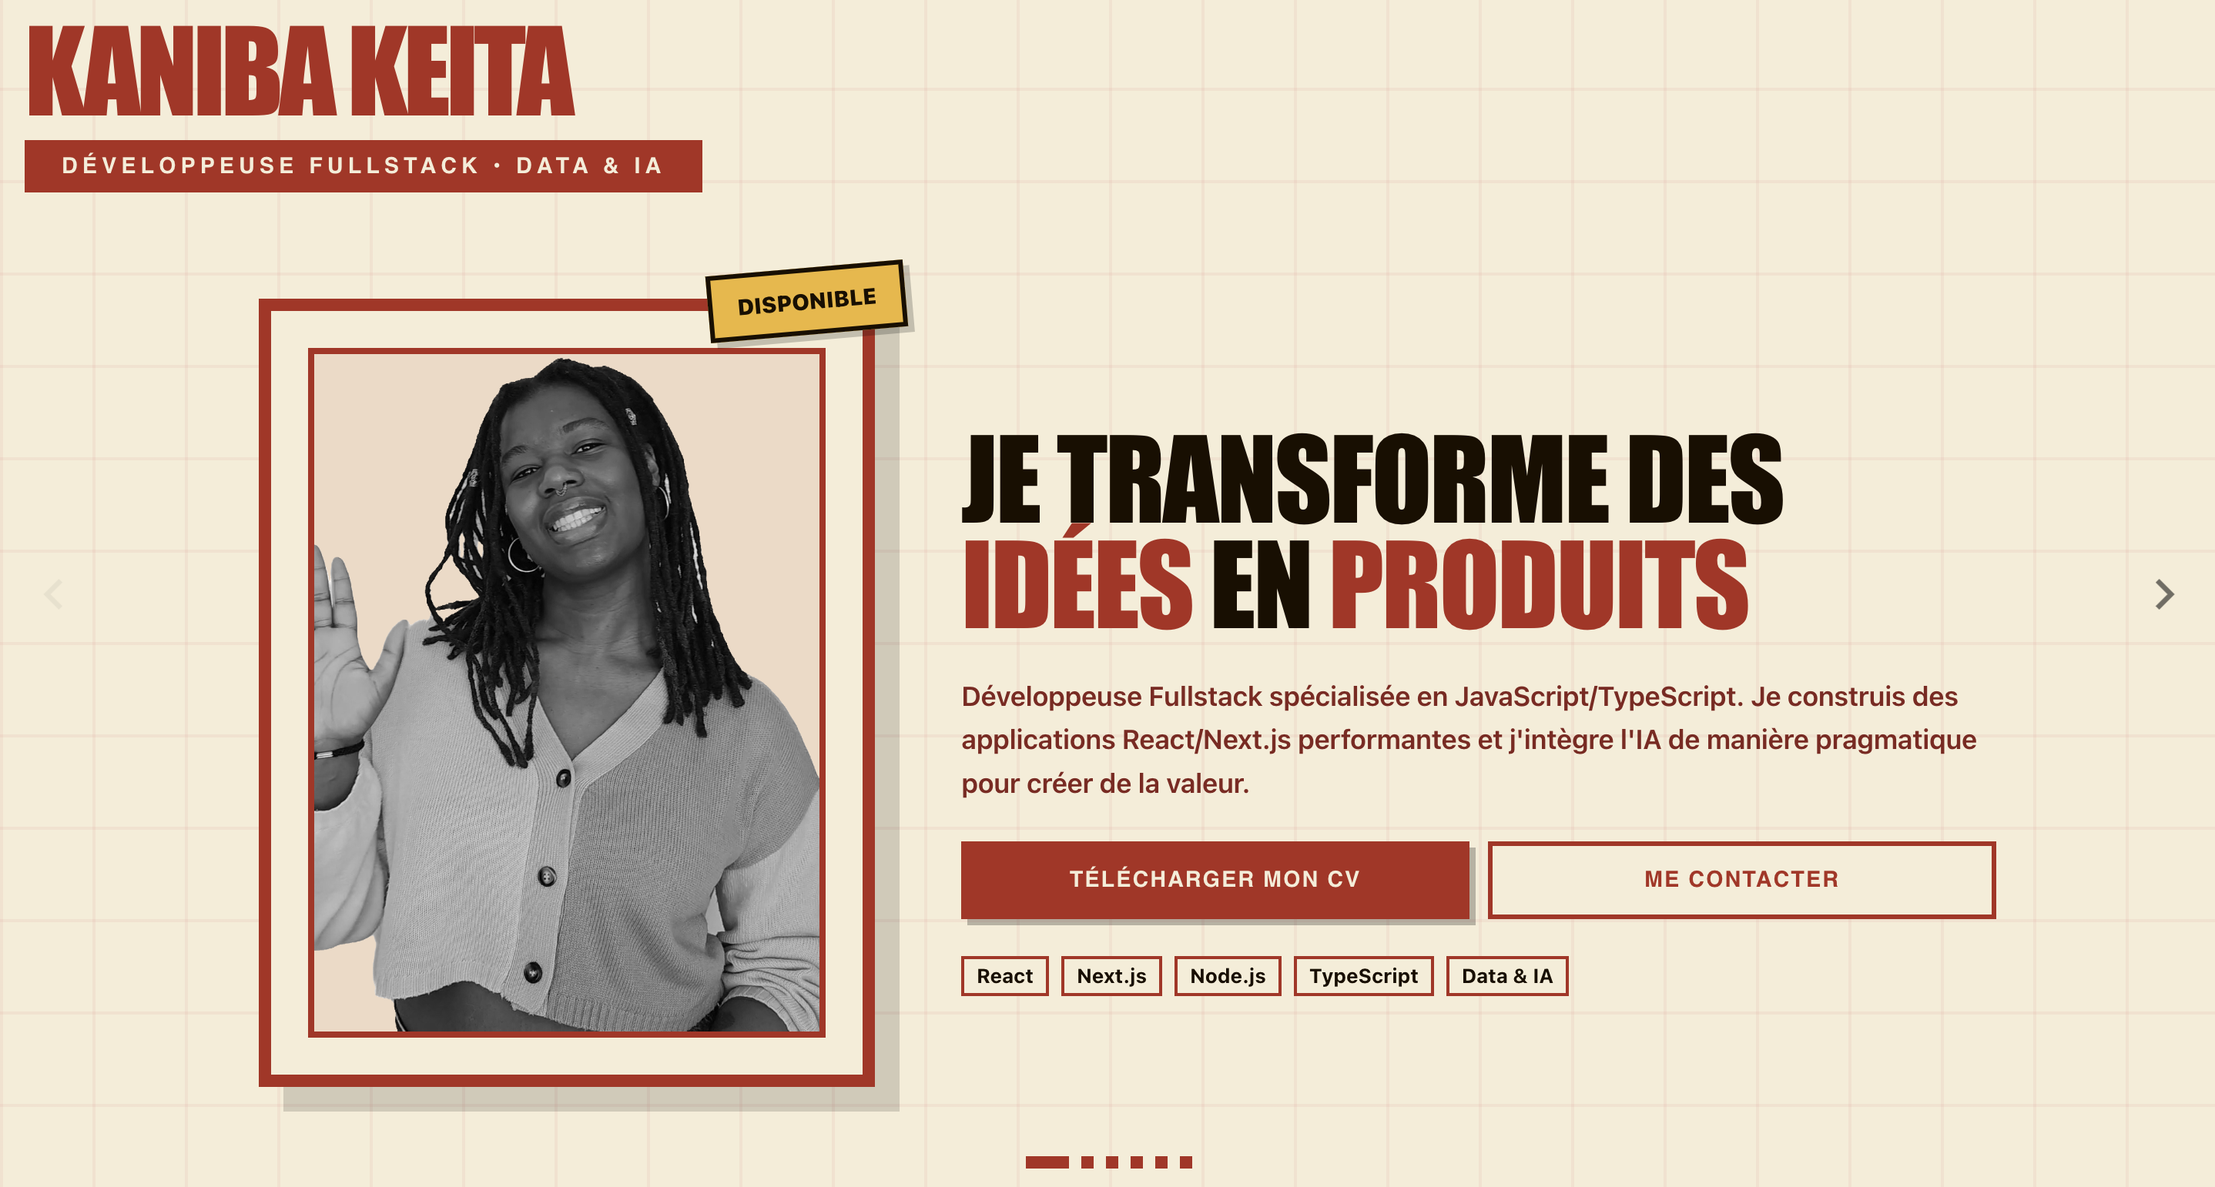
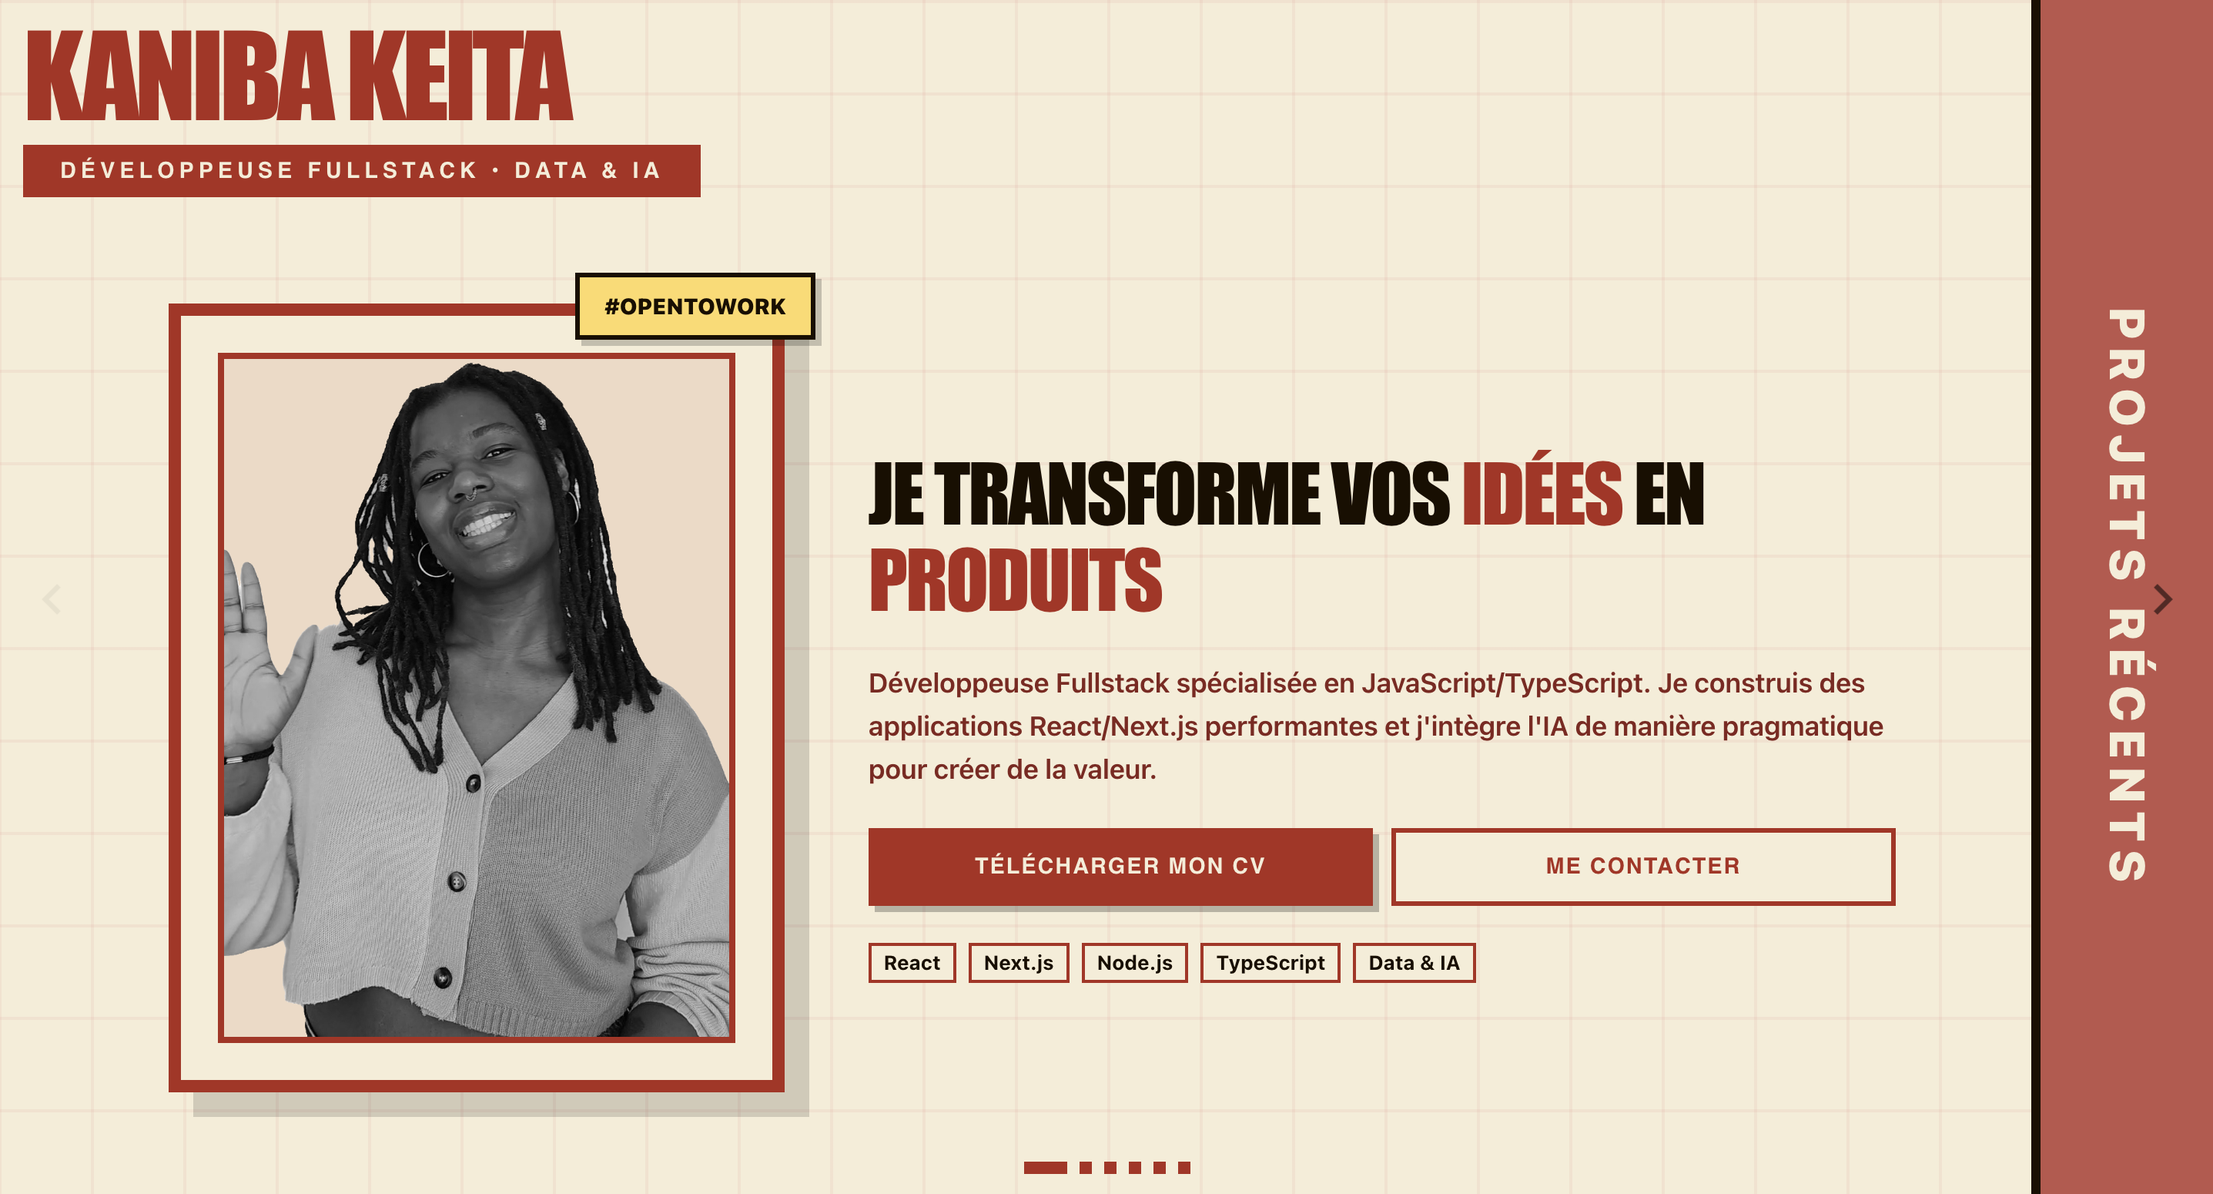
feat: Add Hero2 component and update HomePage to use it

Changed region(s): [[0.0619, 0.0, 1.0, 1.0], [0.0, 0.0, 0.3097, 0.1868]]

diff --git a/src/components/sections/Hero2.tsx b/src/components/sections/Hero2.tsx
@@ -1,0 +1,336 @@
+"use client";
+
+import { Box, Container, Typography, Stack } from "@mui/material";
+import { motion } from "framer-motion";
+import SlideLayout from "@/components/layout/SlideLayout";
+import LinkBtn from "@/components/common/LinkBtn";
+import { SimpleChip } from "@/components/ui/RetroChip";
+
+const CV_URL = "/cv.pdf";
+const TAGS = ["React", "Next.js", "Node.js", "TypeScript", "Data & IA"];
+
+type HeroProps = {
+    onContactClick?: () => void;
+    onNext?: () => void;
+};
+
+export default function HeroSplitLayout({ onContactClick, onNext }: HeroProps) {
+    return (
+        <Box
+            sx={{
+                width: "100%",
+                height: "100%",
+                display: "flex",
+            }}
+        >
+            {/* Main content */}
+            <Box sx={{ flex: 1, display: "flex", flexDirection: "column" }}>
+                <SlideLayout title="Kaniba Keita" subtitle="Développeuse Fullstack • Data & IA">
+                    <Container
+                        maxWidth="lg"
+                        sx={{
+                            height: "100%",
+                            display: "flex",
+                            alignItems: "center",
+                        }}
+                    >
+                        {/* Split layout: 40% visual / 60% content */}
+                        <Box
+                            sx={{
+                                display: "grid",
+                                gridTemplateColumns: { xs: "1fr", md: "2fr 3fr" },
+                                gap: 4,
+                                width: "100%",
+                            }}
+                        >
+                            {/* LEFT: Visual Section */}
+                            <Box
+                                component={motion.div}
+                                initial={{ opacity: 0, x: -50 }}
+                                animate={{ opacity: 1, x: 0 }}
+                                transition={{ duration: 0.8 }}
+                                sx={{
+                                    position: "relative",
+                                    display: { xs: "none", md: "flex" },
+                                    alignItems: "center",
+                                    justifyContent: "center",
+                                }}
+                            >
+                                {/* Portrait / Illustration placeholder */}
+                                <Box
+                                    sx={{
+                                        position: "relative",
+                                        width: "100%",
+                                        maxWidth: 400,
+                                    }}
+                                >
+                                    {/* Cadre rétro */}
+                                    <Box
+                                        sx={{
+                                            border: "8px solid",
+                                            borderColor: "primary.main",
+                                            bgcolor: "background.paper",
+                                            p: 3,
+                                            boxShadow: "16px 16px 0 rgba(0,0,0,0.15)",
+                                        }}
+                                    >
+                                        {/* Avatar / Illustration */}
+                                        <Box
+                                            sx={{
+                                                aspectRatio: "3/4",
+                                                bgcolor: "rgba(174, 43, 31, 0.1)",
+                                                display: "flex",
+                                                alignItems: "center",
+                                                justifyContent: "center",
+                                                border: "4px solid",
+                                                borderColor: "primary.main",
+                                                position: "relative",
+                                                overflow: "hidden",
+                                            }}
+                                        >
+                                            {/* Photo */}
+                                            <Box
+                                                sx={{
+                                                    position: "absolute",
+                                                    inset: 0,
+                                                    backgroundImage: `url('/avatar.png')`,
+                                                    backgroundSize: "cover",
+                                                    backgroundPosition: "center",
+                                                    filter: "grayscale(100%)",
+                                                }}
+                                            />
+                                        </Box>
+
+                                        {/* Sticker decoratif */}
+                                        <Box
+                                            component={motion.div}
+                                            animate={{ rotate: [0, -5, 0] }}
+                                            transition={{
+                                                duration: 3,
+                                                repeat: Infinity,
+                                                ease: "easeInOut",
+                                            }}
+                                            sx={{
+                                                position: "absolute",
+                                                top: -20,
+                                                right: -20,
+                                                bgcolor: "#FFD966",
+                                                border: "3px solid",
+                                                borderColor: "text.primary",
+                                                px: 2,
+                                                py: 1,
+                                                transform: "rotate(12deg)",
+                                                boxShadow: "4px 4px 0 rgba(0,0,0,0.2)",
+                                            }}
+                                        >
+                                            <Typography
+                                                sx={{
+                                                    fontWeight: 900,
+                                                    fontSize: "0.9rem",
+                                                    textTransform: "uppercase",
+                                                }}
+                                            >
+                                                #Opentowork
+                                            </Typography>
+                                        </Box>
+                                    </Box>
+                                </Box>
+                            </Box>
+
+                            {/* RIGHT: Content Section */}
+                            <Box
+                                component={motion.div}
+                                initial={{ opacity: 0, y: 30 }}
+                                animate={{ opacity: 1, y: 0 }}
+                                transition={{ duration: 0.8, delay: 0.2 }}
+                                sx={{
+                                    display: "flex",
+                                    flexDirection: "column",
+                                    justifyContent: "center",
+                                }}
+                            >
+                                <Stack spacing={3}>
+                                    {/* Badge "Disponible" mobile */}
+                                    <Box
+                                        sx={{
+                                            display: { xs: "inline-block", md: "none" },
+                                            alignSelf: "flex-start",
+                                            bgcolor: "#FFD34E",
+                                            border: "3px solid",
+                                            borderColor: "text.primary",
+                                            px: 2,
+                                            py: 0.5,
+                                            boxShadow: "3px 3px 0 rgba(0,0,0,0.2)",
+                                        }}
+                                    >
+                                        <Typography sx={{ fontWeight: 700, fontSize: "0.85rem" }}>
+                                            #OPENTOWORK
+                                        </Typography>
+                                    </Box>
+
+                                    {/* Titre */}
+                                    <Typography
+                                        variant="h1"
+                                        sx={{
+                                            fontWeight: 900,
+                                            textTransform: "uppercase",
+                                            letterSpacing: -1.5,
+                                            lineHeight: 1.1,
+                                            fontSize: { xs: "12vw", md: "3.2rem" },
+                                        }}
+                                    >
+                                        Je transforme vos{" "}
+                                        <Box
+                                            component="span"
+                                            sx={{
+                                                color: "primary.main",
+                                                position: "relative",
+                                                display: "inline-block",
+                                                "&::before": {
+                                                    content: '""',
+                                                    position: "absolute",
+                                                    bottom: 0,
+                                                    left: -8,
+                                                    right: -8,
+                                                    height: "100%",
+                                                    transform: "skew(-3deg)",
+                                                    zIndex: -1,
+                                                },
+                                            }}
+                                        >
+                                            idées
+                                        </Box>{" "}
+                                        en{" "}
+                                        <Box
+                                            component="span"
+                                            sx={{
+                                                color: "primary.main",
+                                                position: "relative",
+                                                display: "inline-block",
+                                                "&::before": {
+                                                    content: '""',
+                                                    position: "absolute",
+                                                    bottom: 0,
+                                                    left: -8,
+                                                    right: -8,
+                                                    height: "100%",
+                                                    transform: "skew(-3deg)",
+                                                    zIndex: -1,
+                                                },
+                                            }}
+                                        >
+                                            produits
+                                        </Box>{" "}
+                                    </Typography>
+
+                                    {/* Description */}
+                                    <Typography
+                                        sx={{
+                                            fontSize: { xs: "1rem", md: "1.1rem" },
+                                            lineHeight: 1.6,
+                                            fontWeight: 600,
+                                            color: "rgba(116, 7, 7, 0.9)",
+                                        }}
+                                    >
+                                        Développeuse Fullstack spécialisée en JavaScript/TypeScript.
+                                        Je construis des applications React/Next.js performantes et
+                                        j'intègre l'IA de manière pragmatique pour créer de la valeur.
+                                    </Typography>
+
+                                    {/* CTA Buttons */}
+                                    <Stack direction={{ xs: "column", sm: "row" }} spacing={1.5}>
+                                        <LinkBtn
+                                            href={CV_URL}
+                                            label="Télécharger mon CV"
+                                            variant="primary"
+                                        />
+                                        <LinkBtn
+                                            label="Me contacter"
+                                            variant="outline"
+                                            onClick={onContactClick}
+                                        />
+                                    </Stack>
+
+                                    {/* Tags */}
+                                    <Stack direction="row" spacing={1} flexWrap="wrap" useFlexGap>
+                                        {TAGS.map((tag) => (
+                                            <SimpleChip key={tag} item={tag} />
+                                        ))}
+                                    </Stack>
+                                </Stack>
+                            </Box>
+                        </Box>
+                    </Container>
+                </SlideLayout>
+            </Box>
+
+            {/* Right navigation tab */}
+            <Box
+                component={motion.div}
+                onClick={onNext}
+                whileHover={{ width: 140 }}
+                initial={{ opacity: 0, x: 100 }}
+                animate={{ opacity: 1, x: 0 }}
+                transition={{ duration: 0.3 }}
+                sx={{
+                    display: { xs: "none", md: "flex" },
+                    width: 120,
+                    height: "100%",
+                    bgcolor: "primary.light",
+                    cursor: "pointer",
+                    position: "relative",
+                    flexDirection: "column",
+                    alignItems: "center",
+                    justifyContent: "center",
+                    borderLeft: "6px solid",
+                    borderColor: "text.primary",
+                    transition: "width 0.3s ease",
+                    "&:hover": {
+                        bgcolor: "primary.main",
+                    },
+                }}
+            >
+                {/* Arrow */}
+                {/* <Box
+                    sx={{
+                        width: 50,
+                        height: 50,
+                        bgcolor: "text.primary",
+                        display: "flex",
+                        alignItems: "center",
+                        justifyContent: "center",
+                        mb: 3,
+                        // transform: "rotate(90deg)",
+                    }}
+                >
+                    <Typography
+                        sx={{
+                            fontSize: "2rem",
+                            fontWeight: 900,
+                            color: "background.default",
+                        }}
+                    >
+                        →
+                    </Typography>
+                </Box> */}
+
+                {/* Vertical text */}
+                <Typography
+                    sx={{
+                        writingMode: "vertical-rl",
+                        textOrientation: "mixed",
+                        fontWeight: 900,
+                        fontSize: { xs: "1.5rem", md: "2rem" },
+                        textTransform: "uppercase",
+                        letterSpacing: 5,
+                        color: "background.default",
+                        textAlign: "center",
+                        userSelect: "none",
+                    }}
+                >
+                    PROJETS RÉCENTS
+                </Typography>
+            </Box>
+        </Box>
+    );
+}

diff --git a/src/app/(site)/page.tsx b/src/app/(site)/page.tsx
@@ -2,7 +2,7 @@
 
 import { useCallback, useEffect, useMemo, useState } from 'react'
 
-import Hero from '@/components/sections/Hero'
+import Hero from '@/components/sections/Hero2'
 import Education from '@/components/sections/Education'
 import Experience from '@/components/sections/Experiences'
 import Skills from '@/components/sections/Skills'
@@ -15,8 +15,13 @@ export default function HomePage() {
 
     const slides = useMemo(
         () => [
+            // <HeroSlide
+            //     key="hero"
+            //     onContactClick={() => setIndex(5)} // Index of Contact slide
+            // />,
             <Hero
                 key="hero"
+                onNext={() => setIndex(1)}
                 onContactClick={() => setIndex(5)} // Index of Contact slide
             />,
             <Projects key="projects" />,

diff --git a/src/components/layout/SlideLayout.tsx b/src/components/layout/SlideLayout.tsx
@@ -144,6 +144,7 @@ export default function SlideLayout({
                     justifyContent: "center",
                     py: { xs: 3, md: 1 },
                     pb: { xs: 3, md: 1 },
+                    px: { xs: 0, md: 8 },
                     mb: { xs: 6, md: 2 },
                     // border: "3px solid",
                     // borderColor: "primary.main",
